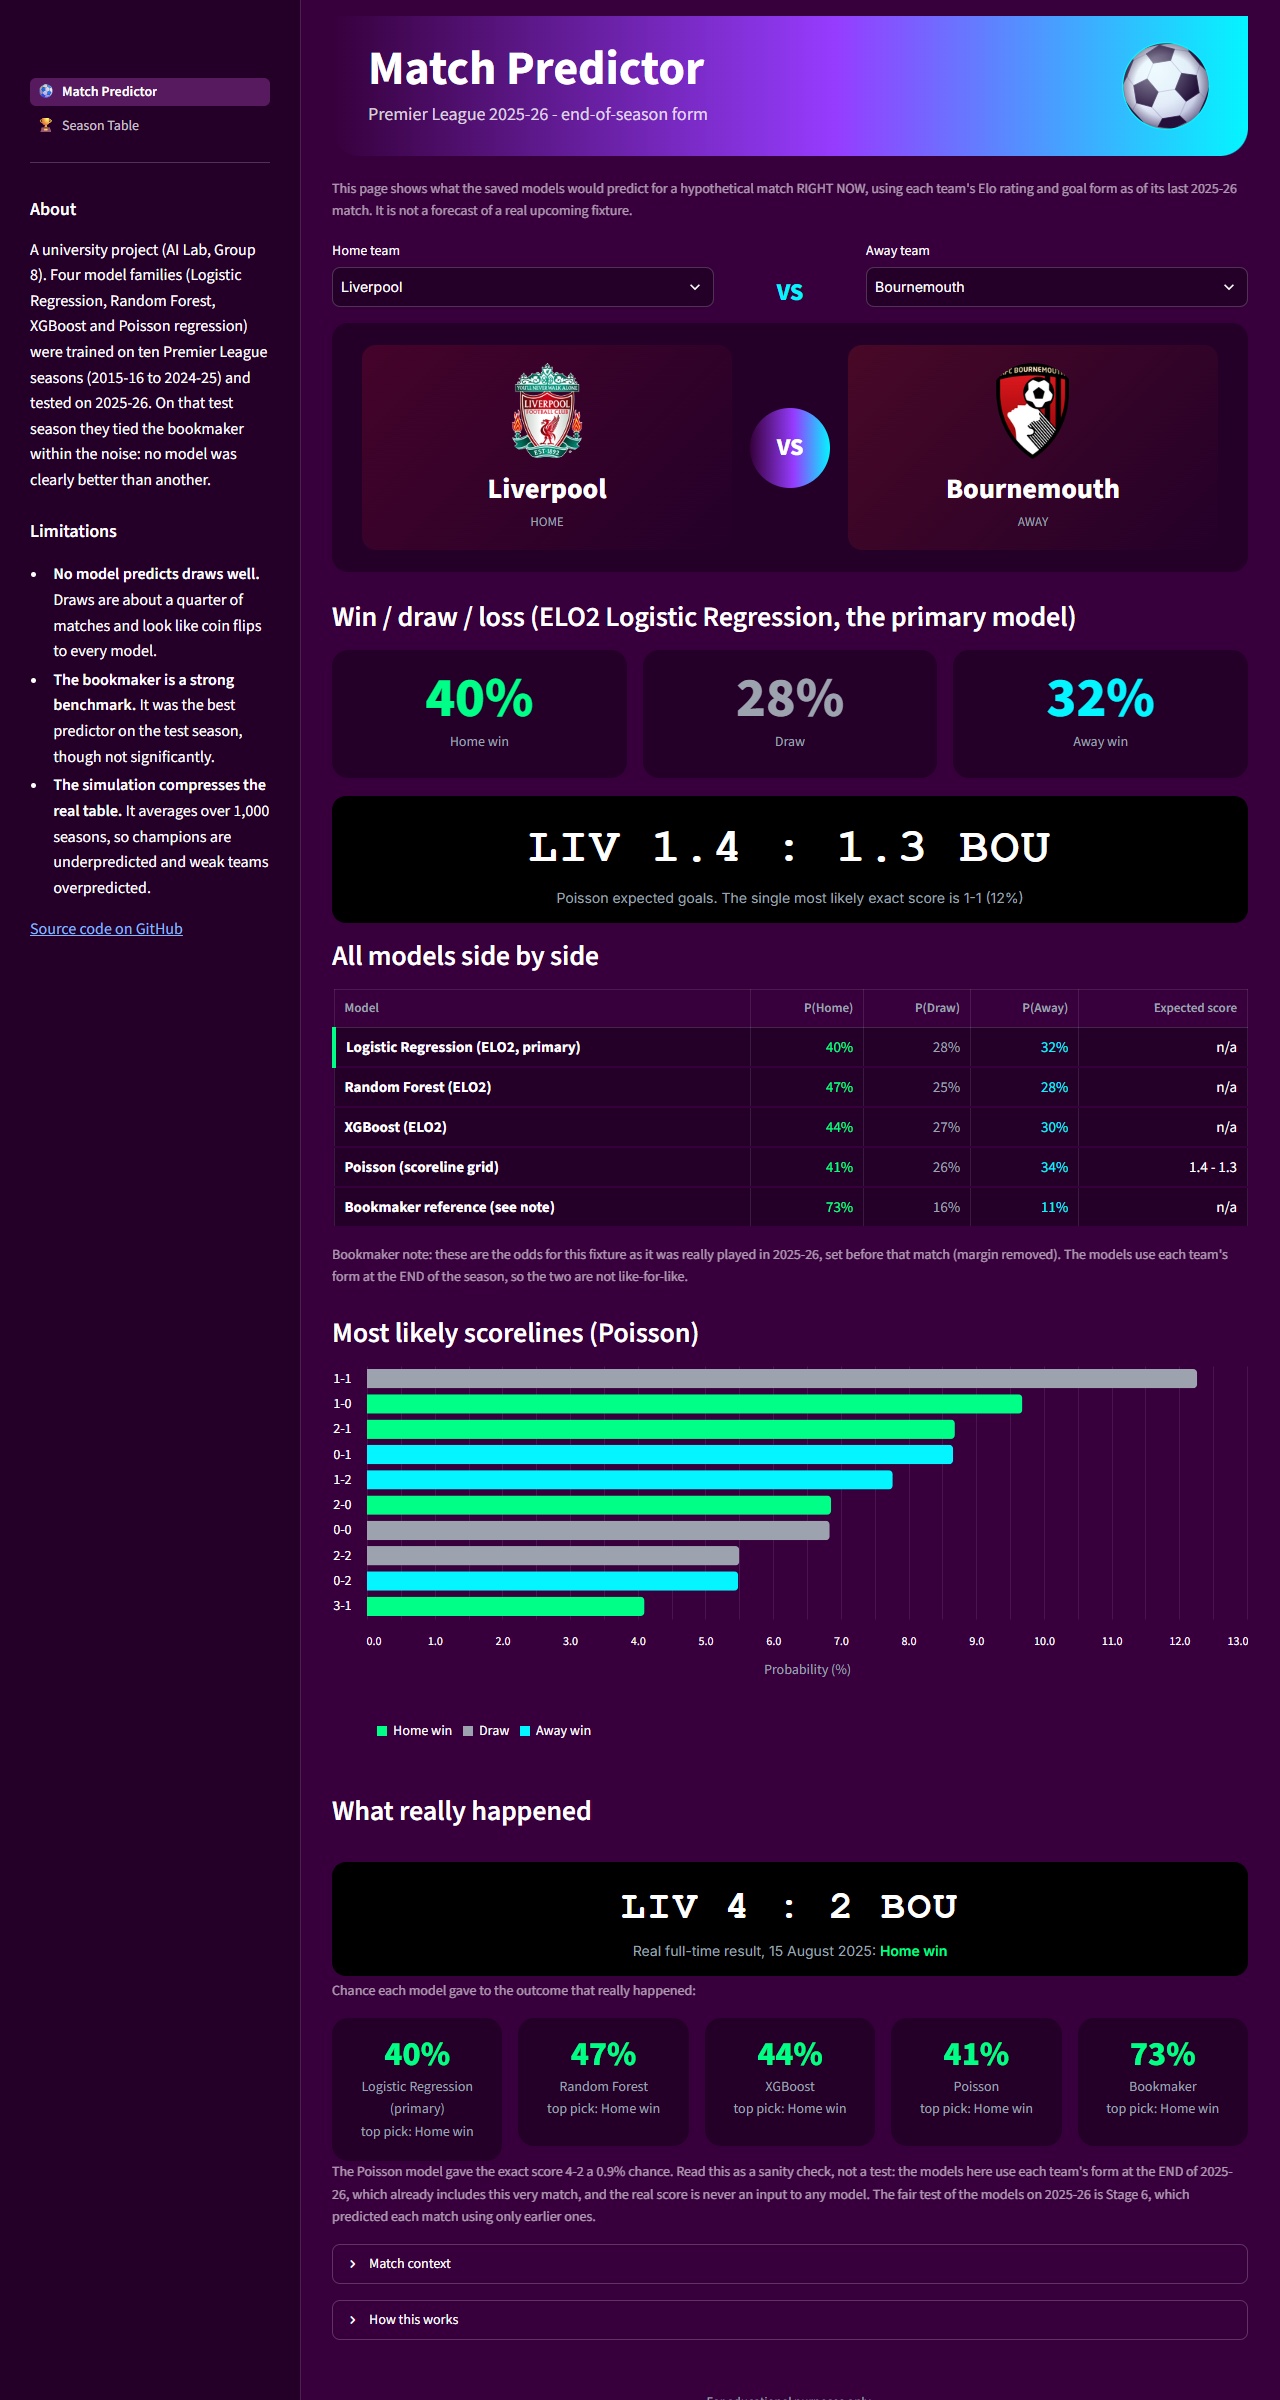
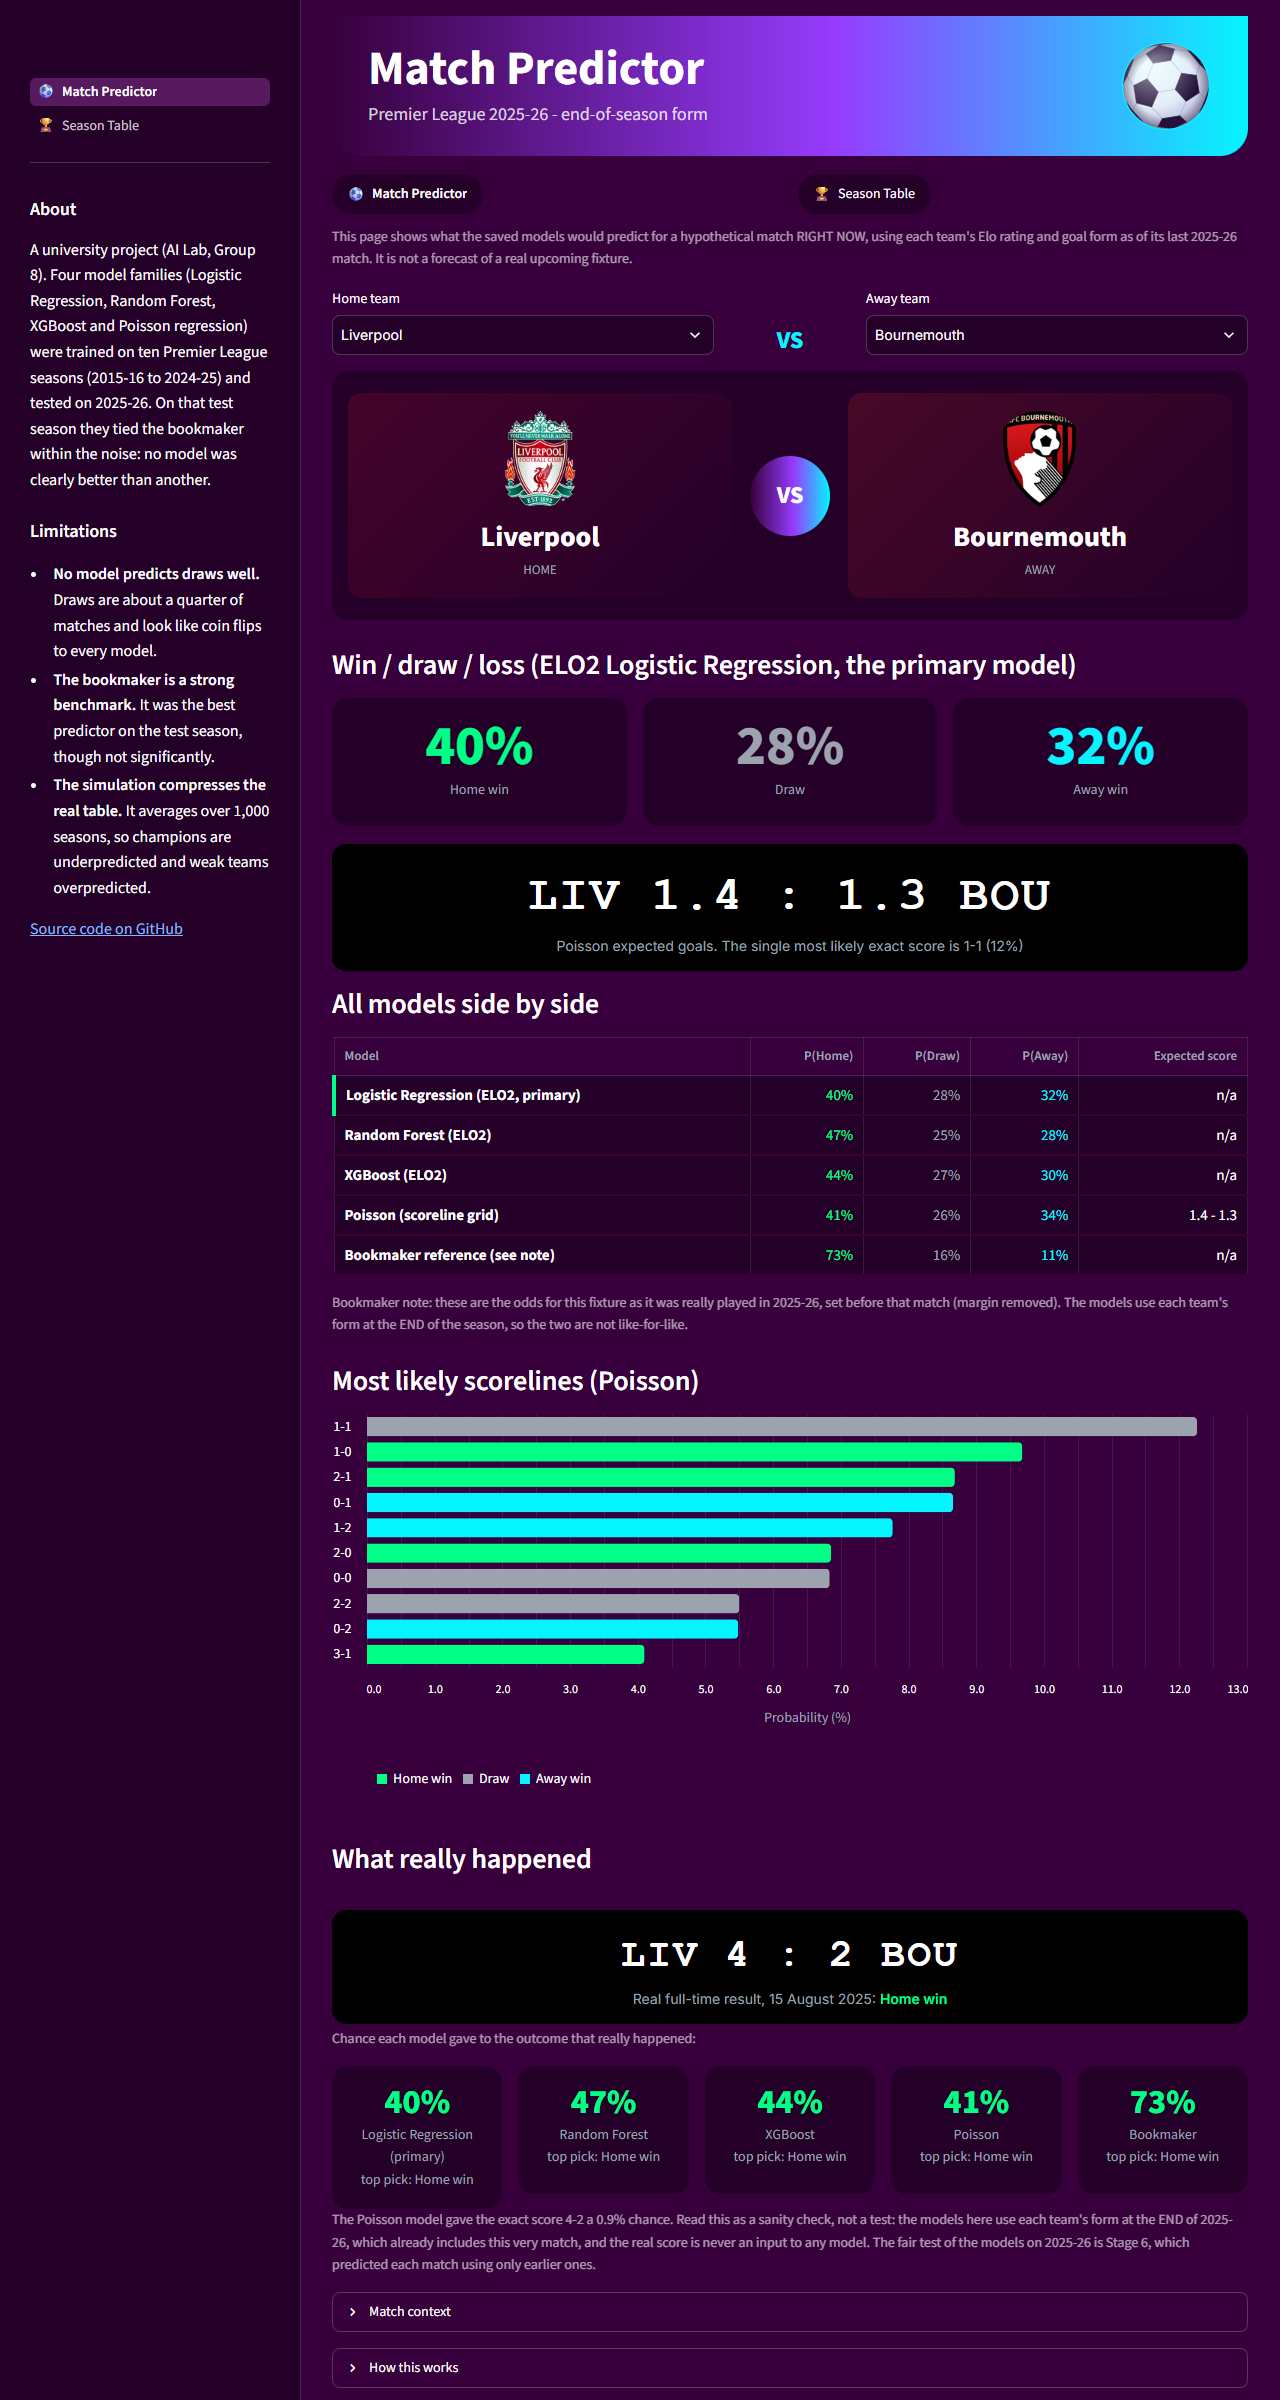
Stage 9: add in-page links between the two pages

diff --git a/app/styles.py b/app/styles.py
@@ -25,7 +25,10 @@ CSS = f"""
 html, body, [class*="css"], .stMarkdown, .stSelectbox, .stRadio {{ font-family: 'Inter', system-ui, -apple-system, 'Segoe UI', sans-serif; }}
 #MainMenu, footer {{ visibility: hidden; }}
 [data-testid="stToolbar"], [data-testid="stDecoration"] {{ display: none; }}
-header[data-testid="stHeader"] {{ background: transparent; }}   /* keeps the small sidebar toggle usable on phones */
+header[data-testid="stHeader"] {{ background: transparent; }}
+[data-testid="stExpandSidebarButton"], [data-testid="stSidebarCollapsedControl"], [data-testid="stSidebarCollapseButton"] {{ color: #FFFFFF; }}
+[data-testid="stPageLink"] a {{ background: {CARD}; border-radius: 999px; padding: 6px 16px; }}
+[data-testid="stPageLink"] a:hover {{ background: #3a0a42; }}   /* keeps the small sidebar toggle usable on phones */
 .block-container {{ padding: 0 2rem 2rem 2rem; max-width: 1180px; }}
 h1 {{ font-size: 48px; font-weight: 800; }} h2 {{ font-size: 32px; font-weight: 800; }} h3 {{ font-size: 20px; font-weight: 600; }}
 p, li, label {{ font-size: 16px; }}
@@ -39,9 +42,9 @@ p, li, label {{ font-size: 16px; }}
 .tile .big {{ font-size: 56px; font-weight: 800; line-height: 1.05; }}
 .tile .label {{ font-size: 14px; color: {GREY}; margin-top: 4px; }}
 .tile .big.sm {{ font-size: 34px; }}
-.matchup {{ display: flex; align-items: center; justify-content: space-between; border-radius: 16px; padding: 22px 30px; background: {CARD}; }}
-.side {{ flex: 1; text-align: center; padding: 18px 8px; border-radius: 14px; }}
-.side .name {{ font-size: 28px; font-weight: 800; margin-top: 8px; }}
+.matchup {{ display: flex; align-items: center; justify-content: space-between; border-radius: 16px; padding: 22px 16px; background: {CARD}; overflow: hidden; }}
+.side {{ flex: 1 1 0; min-width: 0; text-align: center; padding: 18px 8px; border-radius: 14px; }}
+.side .name {{ font-size: clamp(16px, 2.2vw, 28px); font-weight: 800; margin-top: 8px; overflow-wrap: anywhere; }}
 .vs {{ width: 80px; height: 80px; border-radius: 50%; background: {GRADIENT}; display: flex; align-items: center; justify-content: center;
        font-weight: 800; font-size: 24px; margin: 0 18px; flex: none; }}
 .score {{ background: #000; border-radius: 14px; padding: 14px 10px; text-align: center; font-family: 'Courier New', ui-monospace, monospace;
@@ -107,6 +110,13 @@ def crest(team, size=28):
 
 def tile(value, label, color="#FFFFFF", small=False):
     return f'<div class="tile"><div class="big{" sm" if small else ""}" style="color:{color}">{value}</div><div class="label">{label}</div></div>'
+
+
+def nav_links():
+    """Links to both pages, right under the banner, so the user never depends on the sidebar (it starts collapsed on narrow screens)."""
+    left, right = st.columns(2)
+    left.page_link("views/match_predictor.py", label="Match Predictor", icon="⚽")
+    right.page_link("views/season_table.py", label="Season Table", icon="🏆")
 
 
 def disclaimer():

diff --git a/src/check_app.py b/src/check_app.py
@@ -121,6 +121,12 @@ assert not heavy, heavy
 assert not list(APP.rglob("*.csv")) and not list(APP.rglob("*.joblib")) and not list(APP.rglob("*.ipynb"))
 passed("app/ holds only small code files (no data, models or notebooks)")
 
+# ------------------------------------------------ 6b. both pages link to each other (the sidebar starts collapsed on narrow screens)
+for page, target in (("match_predictor", "season_table"), ("season_table", "match_predictor")):
+    assert "styles.nav_links()" in (APP / "views" / f"{page}.py").read_text(encoding="utf-8"), page
+assert 'page_link("views/season_table.py"' in (APP / "styles.py").read_text(encoding="utf-8") and 'page_link("views/match_predictor.py"' in (APP / "styles.py").read_text(encoding="utf-8")
+passed("each page shows in-page links to both pages (navigation does not depend on the sidebar)")
+
 # ------------------------------------------------ 7. app/requirements.txt is the minimal list
 requirements = (APP / "requirements.txt").read_text().lower()
 for package in ("streamlit", "pandas", "numpy", "scikit-learn", "xgboost", "joblib", "statsmodels", "scipy"):

diff --git a/app/views/season_table.py b/app/views/season_table.py
@@ -79,6 +79,7 @@ def heatmap(table, positions):
 
 
 styles.hero("Season Table", "Simulated 2025-26, 1,000 Monte Carlo runs")
+styles.nav_links()
 table, by_game, metrics, positions = load_data()
 
 c1, c2, c3, c4 = st.columns(4)

diff --git a/app/views/match_predictor.py b/app/views/match_predictor.py
@@ -103,6 +103,7 @@ def scoreline_chart(r):
 
 
 styles.hero("Match Predictor", "Premier League 2025-26 - end-of-season form")
+styles.nav_links()
 try:
     predictor = load_predictor()
 except AppDataError as error:
